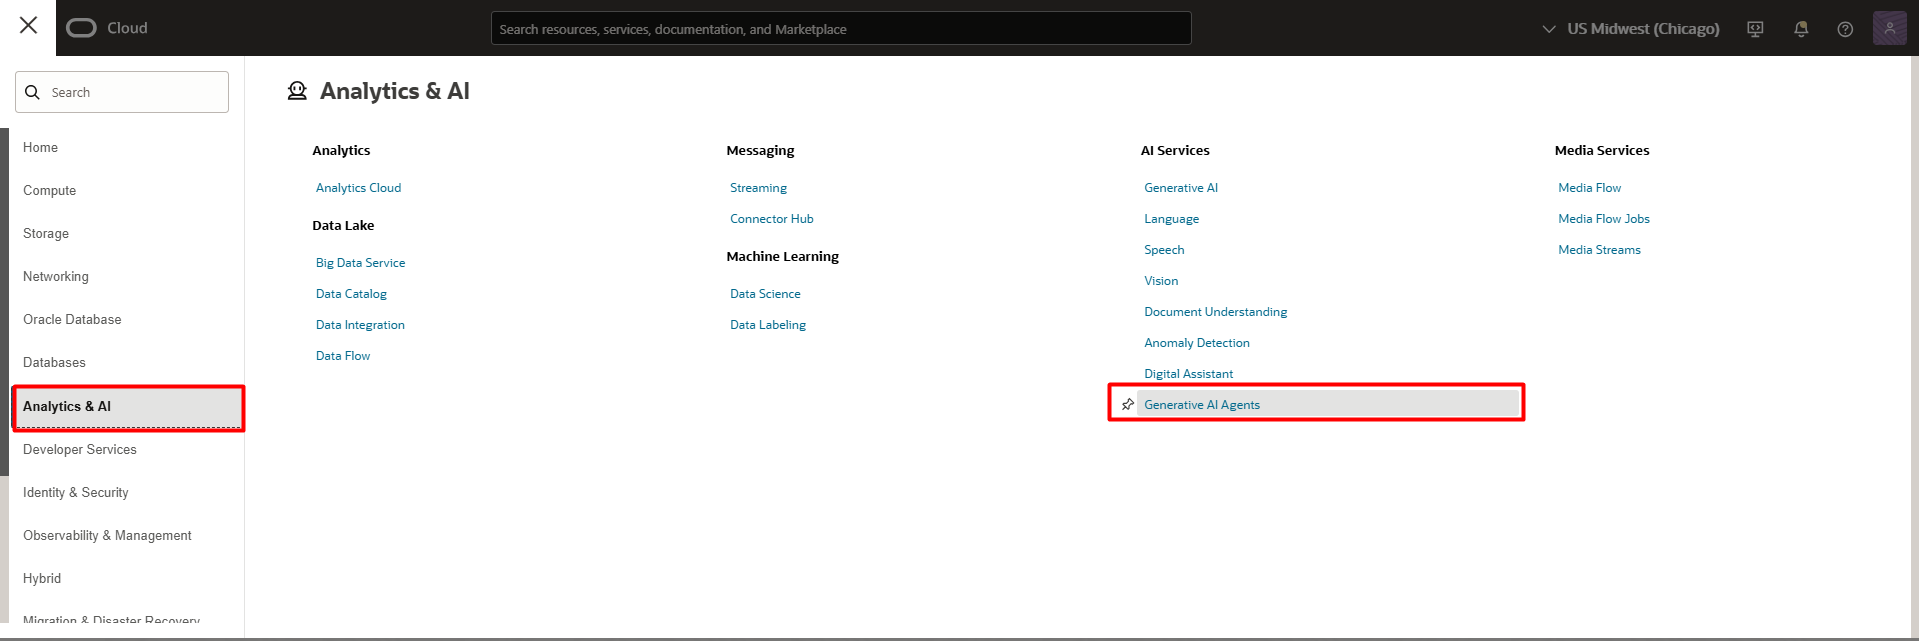
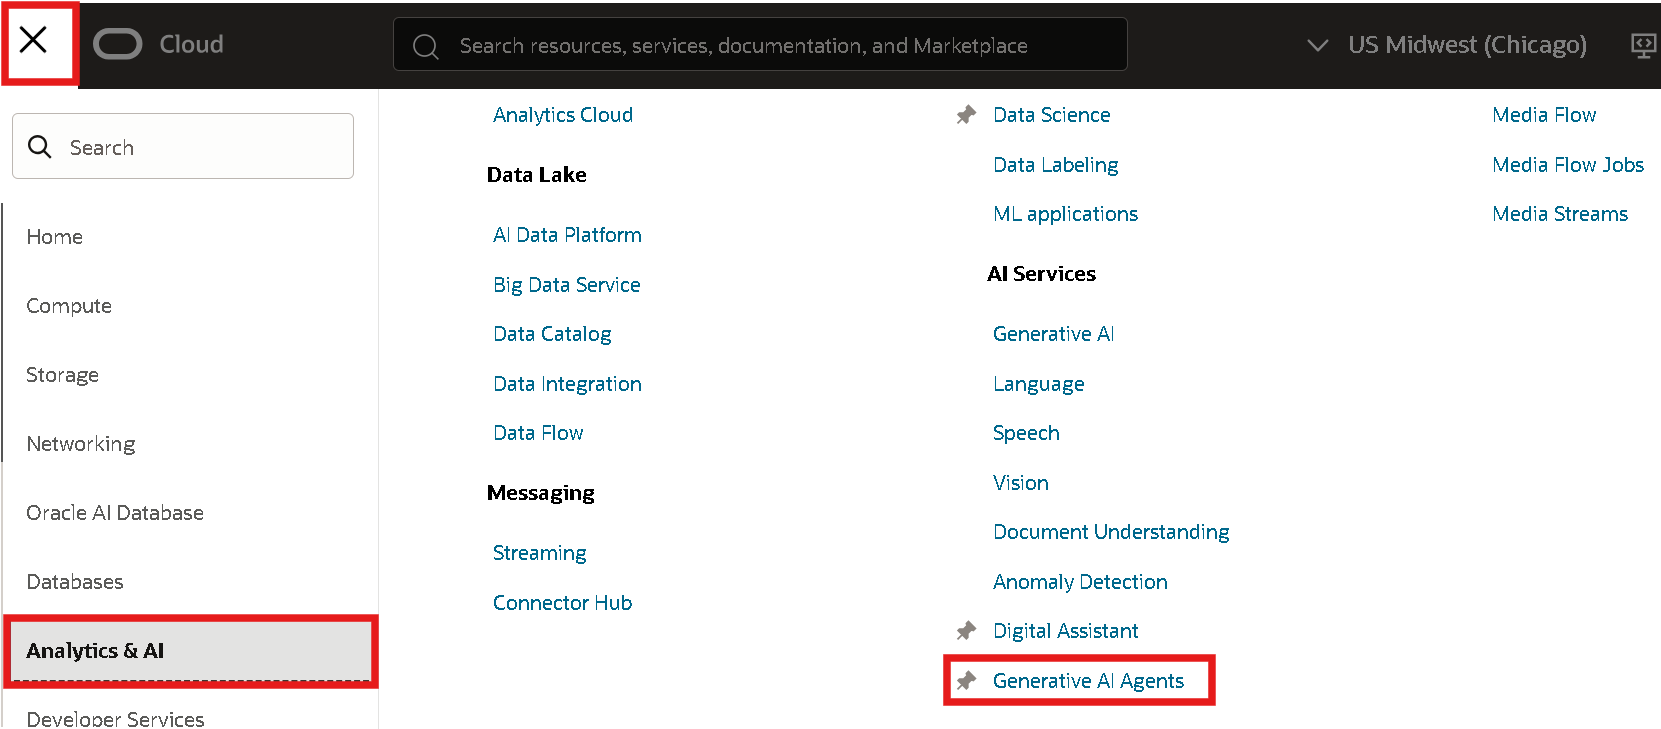
Update agent guide with new examples and images
Revised the generative AI agents documentation to include new example questions for testing, updated formatting for clarity, and added the chat agent image. Also updated existing images for the knowledge menu and agents menu to reflect the latest UI.

diff --git a/4-agents-generative-ai/4-agents-generative-ai.md b/4-agents-generative-ai/4-agents-generative-ai.md
@@ -54,7 +54,7 @@ Selecione os arquivos PDFs baixados no seu computador, **clique e arraste para a
 
 ## 2⃣ Criação da Base de Conhecimento (Knowledge Base)
 
-Clique no menu de hambúrguer localizado no canto superior esquerdo da tela. Em seguida, selecione Analytics & AI e depois Generative AI Agents.
+Clique no menu de hambúrguer localizado no canto superior esquerdo da tela. Em seguida, selecione **Analytics & AI** e depois **Generative AI Agents**.
 
 ![Menu Agents](images/menu-agents.png)
 
@@ -181,23 +181,29 @@ Esta é a área principal onde você pode interagir com o agente. Aqui, o assist
 
 Na imagem abaixo, você pode observar o funcionamento do assistente virtual ao responder perguntas baseadas em diferentes documentos previamente carregados na base de conhecimento.
 
-1. A pergunta **"O que é o Programa de Qualificação de Dados e Benefícios?"** foi realizada com base em um documento específico presente na base de conhecimento.
-2. Outra pergunta foi realizada: **"Quais situações podem gerar reembolso na viagem a serviço nacional?"**, utilizando informações de um documento diferente da mesma base de conhecimento.
+![Chat Agent](images/chat-agent.png)
 
-Exemplos de perguntas para os documentos utilizados:
+Exemplos de perguntas para fazer os testes:
 
-> ### **Revista Dataprev**
-> 1. Qual é o objetivo principal da Dataprev nos seus 50 anos de atuação?
-> 2. O que é a Infraestrutura Nacional de Dados (IND)?
-> 3. Quais foram os avanços tecnológicos destacados pela Dataprev?
-> 4. Como a Dataprev contribui para a soberania digital do Brasil?
-> ### **Normas internas**
-> 1. Quem está sujeito à aplicação da norma de Viagem a Serviço Nacional?
-> 2. O que é o adicional de deslocamento de embarque e desembarque?
-> 3. Quais tipos de alteração de viagem são previstos?
-> 4. O que é a Proposta de Concessão de Diárias e Passagens (PCDP)?
-> 5. Qual o prazo para prestação de contas após a viagem?
-> 6. Quais são os valores estabelecidos para diárias e deslocamentos?
+    <copy>
+    Não gostei do produto. Posso cancelar a compra?
+    </copy>
+<!-- Separador -->
+
+    <copy>
+    Ao abrir uma conta bancária, fui informado de que era obrigatório contratar um seguro de vida. Gostaria de saber se essa exigência por parte do banco está correta.  
+    </copy>
+<!-- Separador -->
+
+    <copy>
+    O cinema da minha cidade proíbe a entrada de produtos adquiridos no supermercado, obrigando os clientes a comprarem apenas os itens vendidos no local. Essa prática está correta? 
+    </copy>
+<!-- Separador -->
+
+    <copy>
+    A escola da minha filha está solicitando diversos materiais. Gostaria de saber quais itens podem ser incluídos legalmente na lista de material escolar.
+    </copy>
+<!-- Separador -->
 
 
 ![Questions](images/questions-agent.png)
